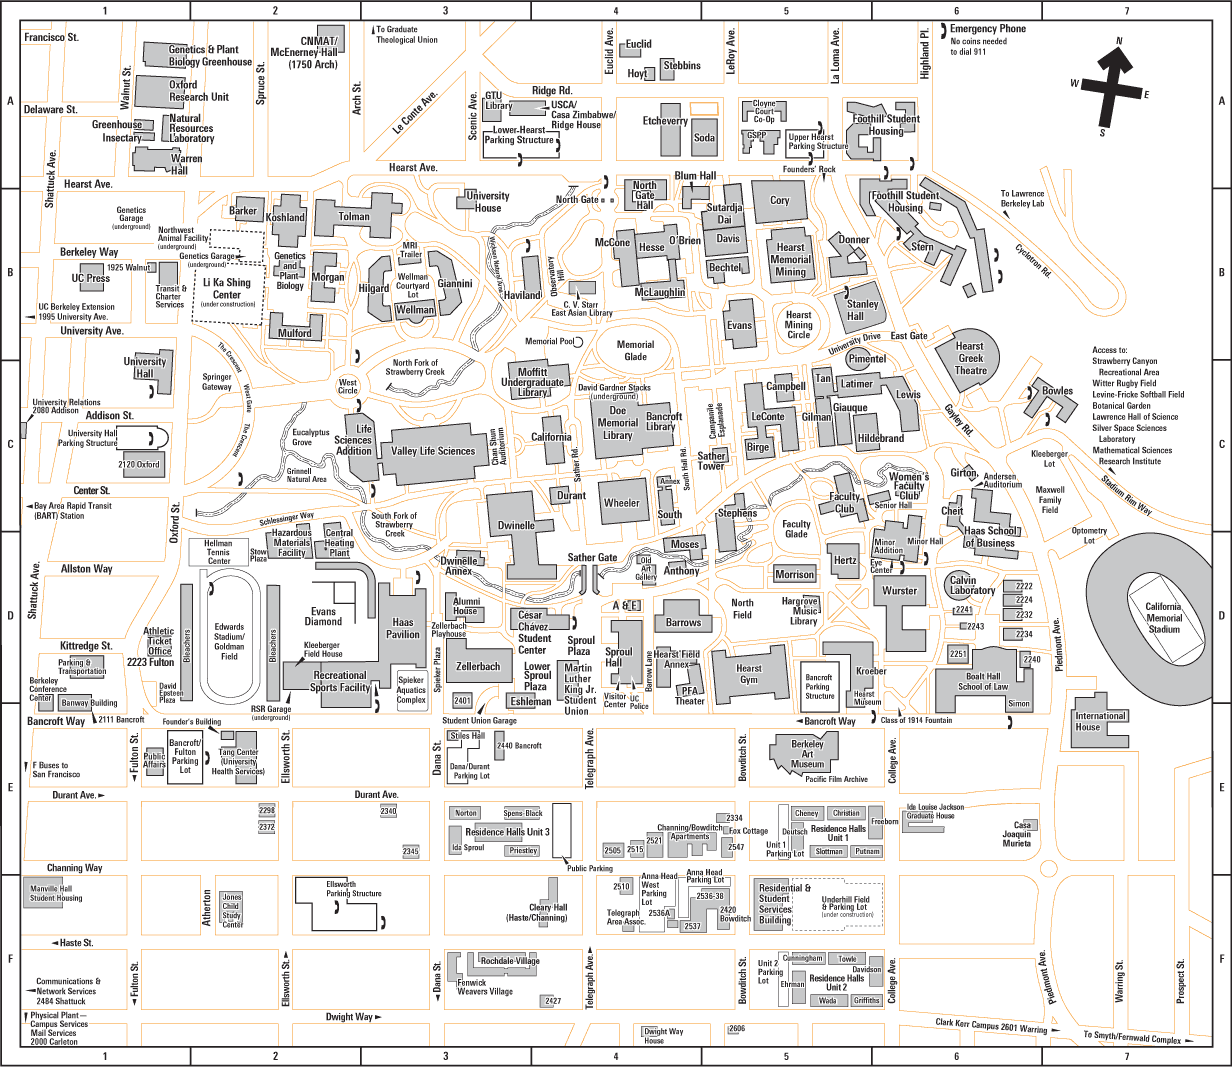
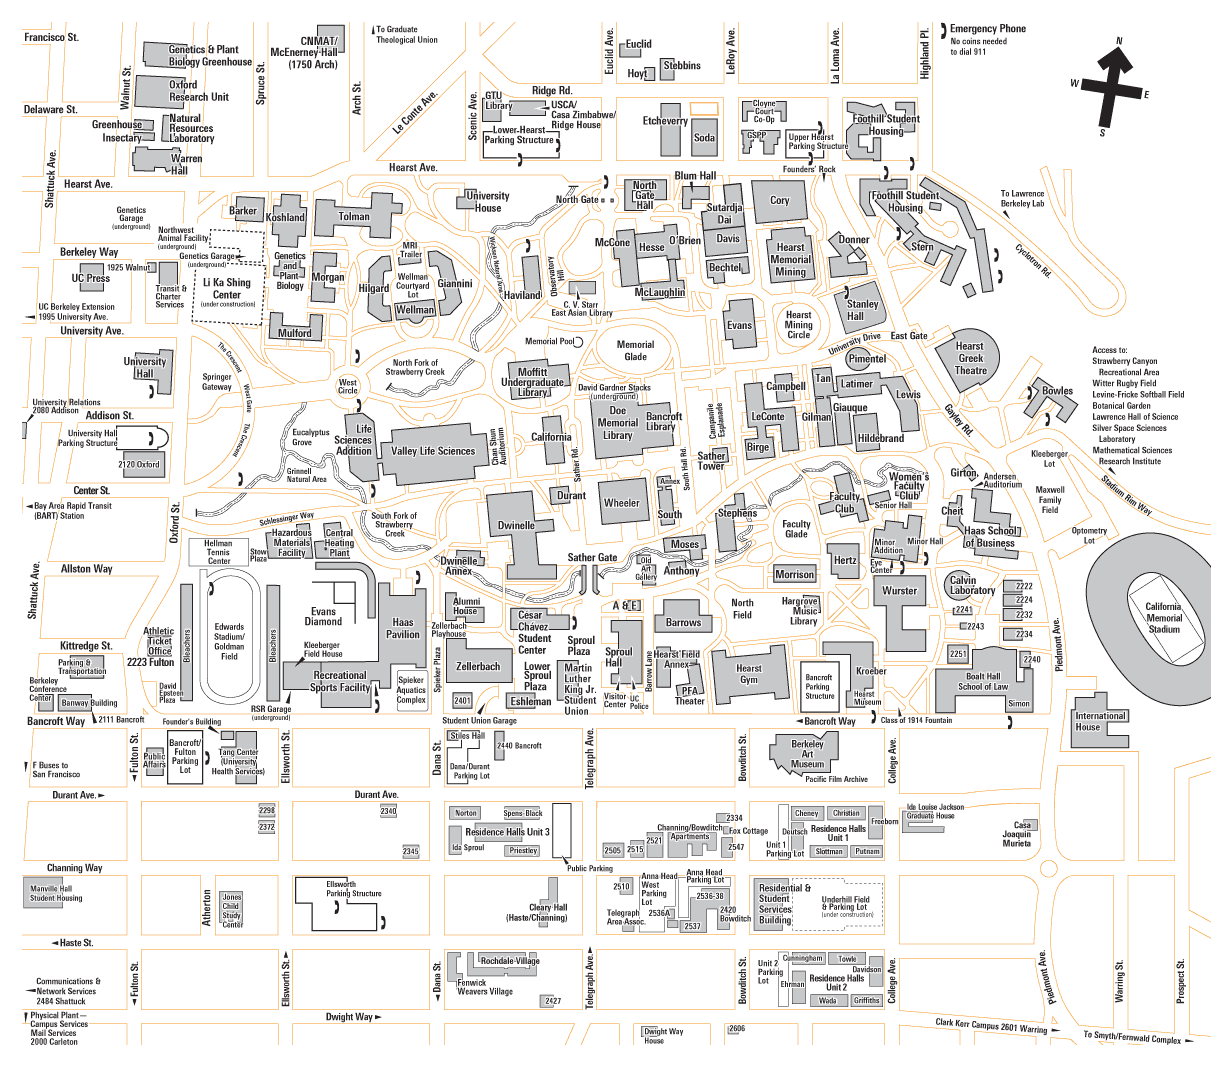
added kWh/SqFt to building list, added border to map

Changed region(s): [[0.0, 0.0, 1.0, 1.0]]

diff --git a/templates/buildinglist.html b/templates/buildinglist.html
@@ -11,6 +11,122 @@ Building List
 $(function() {
 $("table#sortedbuildings").tablesorter({ sortList: [[0,0]] });
 });
+
+
+
+var djangoGenDsqfts = {
+{% for building in buildings|dictsort:"longname" %} "{{ building.kWhqueryid }}": {'SQFT': {{ building.stats_sqft }}, 'UUID': "", 'Reading': 0, 'FullName': "{{ building.longname }}", 'url': "/buildings/{{ building.shortname }}", "kWhperSqFt": 0 }, 
+{% endfor %}
+};
+
+$(document).ready(function() {
+	runReqOne();
+
+});
+
+
+var combinedUUIDqueryString = "";
+var counterTens = 0;
+var setsOfTen = [];
+var collectedData = [];
+
+function ajaxReqOne(callback) {
+	$.ajax({
+		async: true,
+		type: 'POST',
+		url: '/ARDgetData/api/query?',
+		data: "select * where Metadata/Extra/Operator = 'daily meter usage'",
+		success: function(response) {
+			callback(response);
+		}
+	});
+}
+
+function runReqOne() {
+	
+	ajaxReqOne(function(respo){
+		for (ind = 0; ind < respo.length; ind++) {
+				djangoGenDsqfts[respo[ind]["Metadata"]["Location"]["Building"]]['UUID'] = respo[ind]["uuid"];
+			}
+		for (building in djangoGenDsqfts){
+				if (djangoGenDsqfts[building]['UUID']==""){
+					delete djangoGenDsqfts[building]; //removes buildings that don't have kWh data
+				}
+				else {
+					if (counterTens<10){  //this stuff handles ARDs limit of 10 UUIDs per query?
+						combinedUUIDqueryString += " uuid = '" + djangoGenDsqfts[building]['UUID'] + "' or ";
+						counterTens++;
+					}
+					else {
+						setsOfTen.push(combinedUUIDqueryString.slice(0, combinedUUIDqueryString.length-4));
+						combinedUUIDqueryString = "";
+						counterTens = 0;
+						combinedUUIDqueryString += " uuid = '" + djangoGenDsqfts[building]['UUID'] + "' or ";
+						counterTens++;
+						}
+				}
+		}
+		if (counterTens != 10){
+			setsOfTen.push(combinedUUIDqueryString.slice(0, combinedUUIDqueryString.length-4));
+		}
+			
+		runReqTwo(setsOfTen);
+	});
+}
+
+function ajaxReqTwo(callback, querystring, x, endat) {
+	$.ajax({ 
+		async: false,
+		type: 'POST',
+		url: '/ARDgetData/api/query?',
+		data: "select data before now limit 1 where " + querystring,
+		success: function(response) {
+			callback(response, x, endat);
+		}
+	});
+}
+
+function runReqTwo(querystring) {
+	for (x = 0; x < querystring.length; x++){
+	ajaxReqTwo(function(resp, x, endat){
+		for (z = 0; z< resp.length; z++){
+			collectedData[resp[z]['uuid']] = resp[z]['Readings'][0][1];
+			}
+
+			if (x == (endat-1)){
+				mapToDjangoData(collectedData);
+			}
+		}, querystring[x], x, querystring.length);
+	}
+}
+
+function mapToDjangoData(kWhData) {
+	for (building in djangoGenDsqfts){
+		djangoGenDsqfts[building]['Reading'] = kWhData[djangoGenDsqfts[building]['UUID']];
+		djangoGenDsqfts[building]['kWhperSqFt'] = djangoGenDsqfts[building]['Reading']/djangoGenDsqfts[building]['SQFT'];
+	}
+	addToTable(djangoGenDsqfts);
+//	drawBars(sortTesting(djangoGenDsqfts, sorttype), 1);
+}
+
+function addToTable(dataAA){
+	console.log(dataAA);
+	for (building in dataAA){
+		console.log(building);
+		document.getElementById(building).innerHTML = Math.round(dataAA[building]['kWhperSqFt']*10000)/10000;
+		//$("#" + building).html(dataAA[building]['kWhperSqFt']);
+	}
+	$("table#sortedbuildings").trigger("update");
+
+
+}
+
+
+
+
+
+
+
 {% endblock %}
 {% block menu_2 %}
 class="active"
@@ -45,7 +161,7 @@ Click a Building Name for more detailed information.
             <td><a href="/buildings/{{ building.shortname }}">{{ building.longname }}</a></td>
             <td>{{ building.stats_sqft }}</td>
             <td>{{ building.stats_yearBuilt }}</td>
-			<td>Not Yet Avail.</td>
+			<td><div id="{{ building.kWhqueryid }}">Not Yet Avail.</div></td>
 			<td>Not Yet Avail.</td>
           </tr>
 
@@ -54,4 +170,13 @@ Click a Building Name for more detailed information.
       </table>
 	</div>
 </div>
+{% endblock %}
+
+{% block random_extras %}
+<script type="text/javascript">
+
+
+
+
+</script>
 {% endblock %}

diff --git a/templates/compare.html b/templates/compare.html
@@ -41,8 +41,8 @@ Bar height and width represent square footage and kWh per sqft respectively.
 <div style="display:inline-block;">
 <div style="float:left;">Compress Width &nbsp;</div><div id="slider" style="width:650px;float:left;"></div><div style="float:left;">&nbsp;Expand Width</div><br><br>
 <div style="float:left;">Expand Height &nbsp;&nbsp;&nbsp;&nbsp;</div><div id="slider2" style="width:650px;float:left;"></div><div style="float:left;">&nbsp;Compress Height</div><br></div></div>
-<div style="text-align:center">
-<select id="sortselect" class="select">
+<div style="text-align:center"><br>
+Sort By: <select id="sortselect" class="select">
   <option value="kWhperSqFt">kWh/SqFt</option>
   <option value="Reading">kWh</option>
   <option value="SQFT">SqFt</option>

diff --git a/templates/campusmap.html b/templates/campusmap.html
@@ -50,7 +50,7 @@ Click a building to view energy usage information.
 						<input class="btn small primary" type="button" style="width:150px;" value="Close Building List" id="listb2" />
 					</span>
 					</div> 
-					<div id="zoomablemap" style="overflow:hidden;width:940px;height:680px;position:relative;">
+					<div id="zoomablemap" style="overflow:hidden;width:938px;height:680px;position:relative;border-style:solid;border-width:2px;">
 						<img src="/site-media/campusmap.png" width="1232" height="1067" style="border:0;" alt="campusmap" usemap="#map" id="image" />
 						<map id="map" name="map">
 						<!-- coordinates stored in the db were obtained using the following: -->

diff --git a/templates/sitebase.html b/templates/sitebase.html
@@ -20,9 +20,6 @@
     	<![endif]-->
 
 		<style type="text/css">
-			html {}
-			body {
-							}
       		html, body {
         		background-image:url('/site-media/images/background.jpg');
 				background-repeat:no-repeat;

diff --git a/views.py b/views.py
@@ -14,6 +14,10 @@ def passhome(request):
 
 def buildinglist(request):
 	buildings = Building.objects.all()
+	for building in buildings:
+		if building.kWhqueryid == None or building.kWhqueryid == "":
+			building.kWhqueryid = building.longname
+
 	return render_to_response('buildinglist.html', locals())
 
 def search(request):
@@ -41,17 +45,7 @@ def search(request):
 def comparebuildings(request):
 	buildings = Building.objects.order_by("longname")
 	currid = 1
-	for building in buildings: #normalizes square footage data for display
-		if building.stats_sqft == '':
-			building.stats_sqft_fordisp = '50'
-		else:
-			building.stats_sqft_fordisp = str(int(building.stats_sqft)/1000)
-
-		if currid%2 == 0: #for zebra-striping bars
-			building.tempid = False
-		else:
-			building.tempid = True
-		currid += 1
+	for building in buildings: #gets kWh queryids
 		if building.kWhqueryid == None or building.kWhqueryid == "":
 			building.kWhqueryid = building.longname
 			
